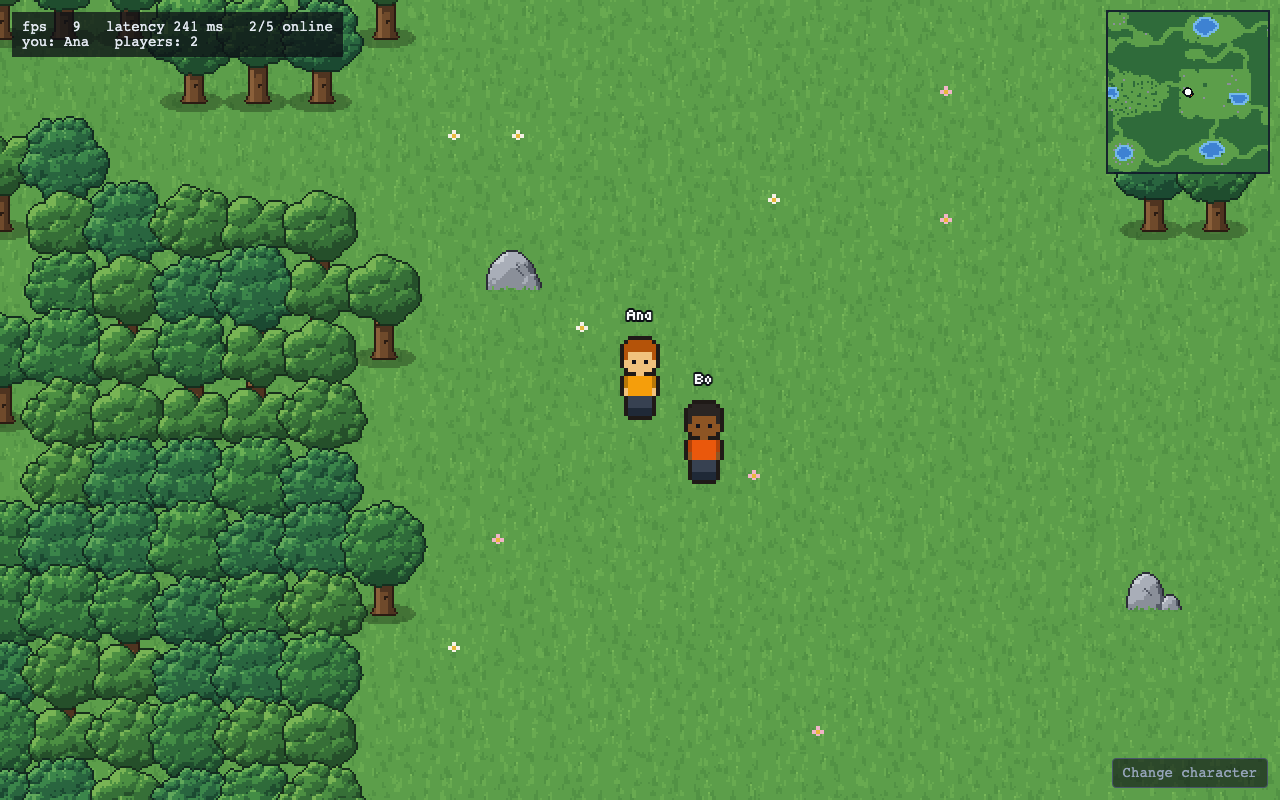
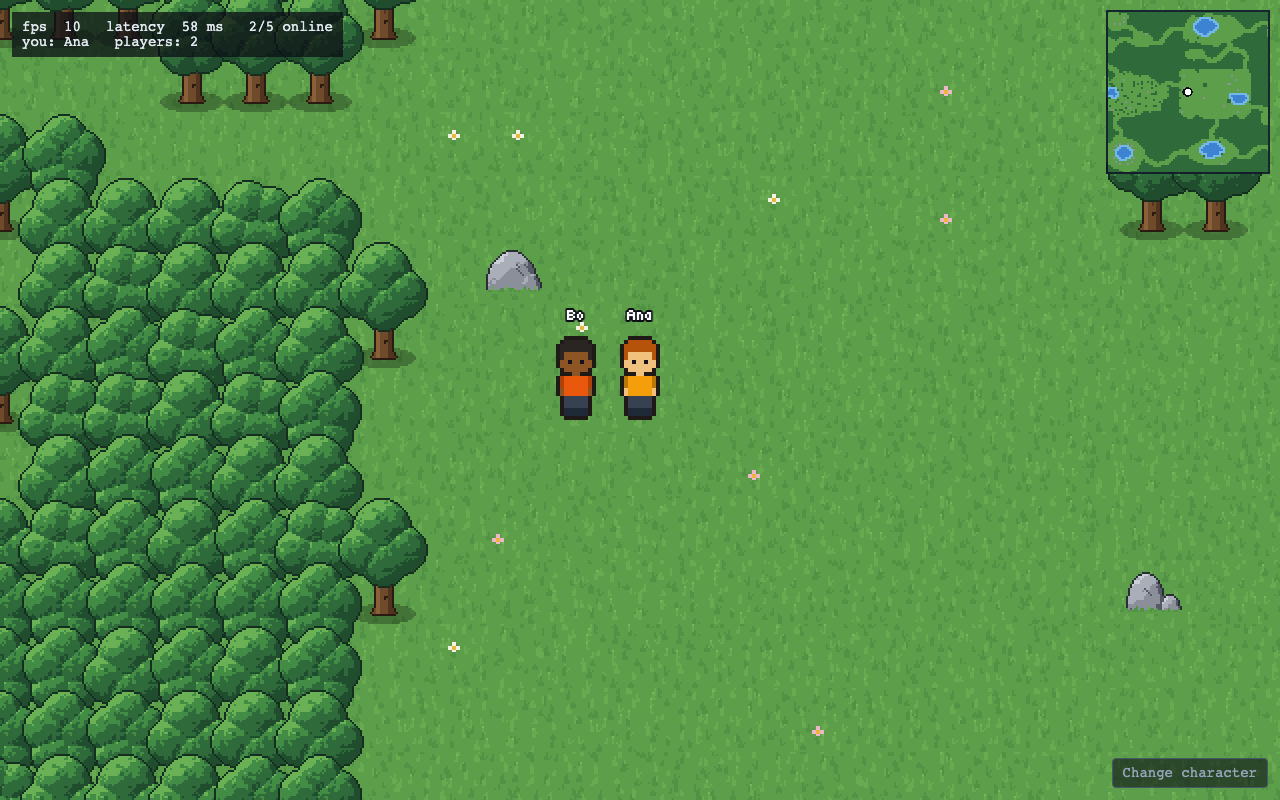
Back to #64's first trees: the reshaped and the eight seeded trees are undone, as asked
Proof rerun: 72 checks pass.

diff --git a/packages/sim/src/features/terrain/defs.ts b/packages/sim/src/features/terrain/defs.ts
@@ -141,7 +141,7 @@ export const terrainDefs: readonly TileDef[] = [
     shape: 'box',
     color: 0x2f6b3a,
     solid: true,
-    standingSprite: { key: 'tree', frameWidth: 48, frameHeight: 64, pixelsPerMetre: 32, variantCount: 8, groundDefId: TerrainDefId.Grass },
+    standingSprite: { key: 'tree', frameWidth: 48, frameHeight: 64, pixelsPerMetre: 32, variantCount: 3, groundDefId: TerrainDefId.Grass },
   },
   {
     id: TerrainDefId.Rock,
